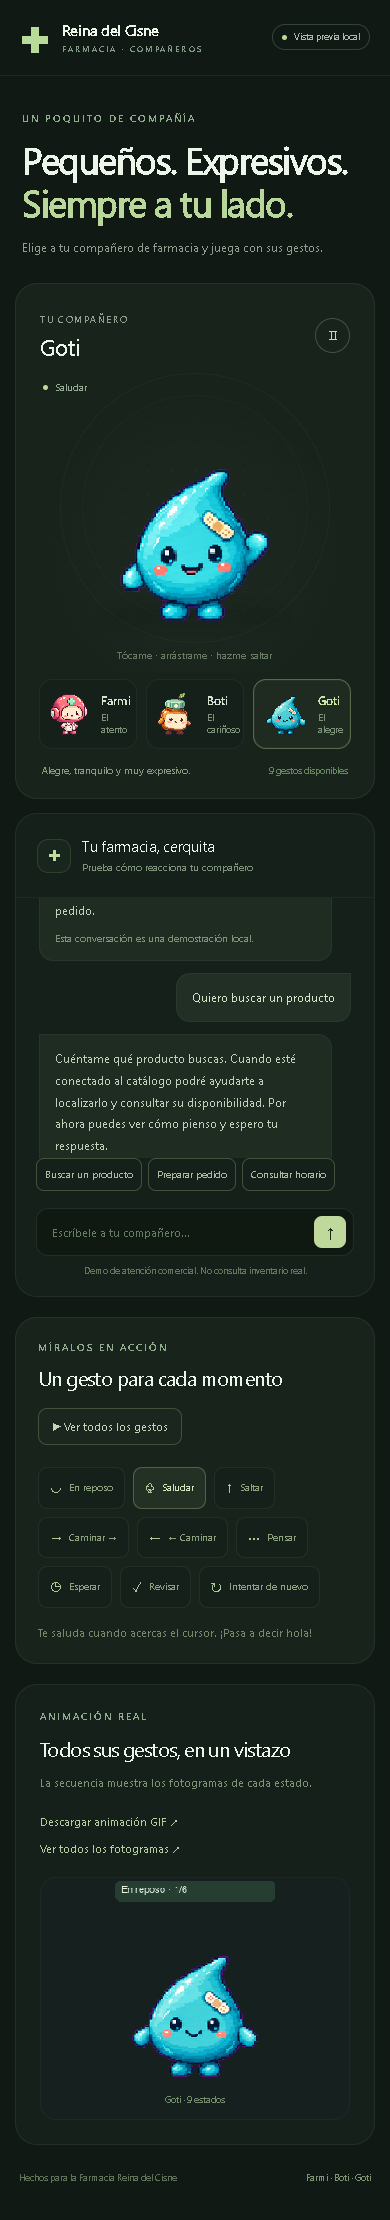
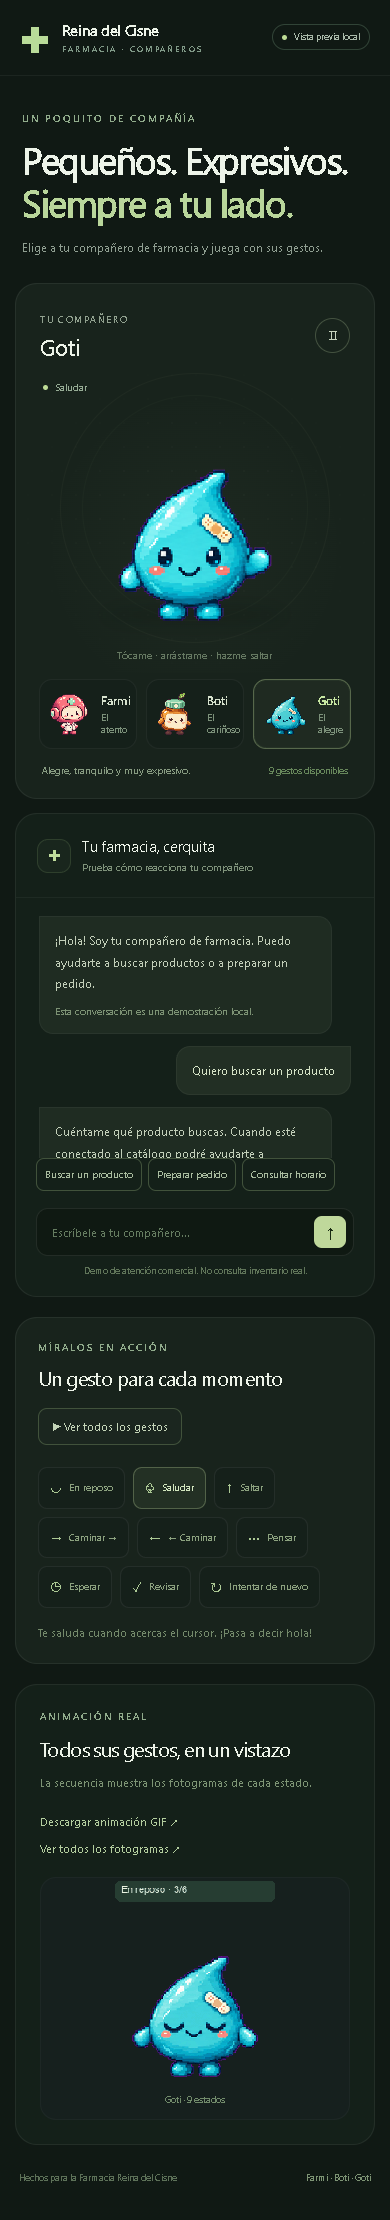
Mejora el diseño responsive de mascotas y tienda

diff --git a/entrega/mascotas-v3/demo-responsive.css b/entrega/mascotas-v3/demo-responsive.css
@@ -1,0 +1,100 @@
+/* Fluid layouts for narrow phones, tablets, short screens and wide monitors. */
+main,.topbar,footer,.workspace,.companion-panel,.chat-panel,.proof-panel,.motion-panel{min-width:0}
+.message,.lede,.character-caption,.proof-panel>div{overflow-wrap:anywhere}
+.chat-messages,.character-choices,.state-buttons{min-width:0}
+.proof-player{width:min(235px,100%)}
+
+@media(min-width:1500px){
+  main{max-width:1320px}
+  .workspace{grid-template-columns:minmax(0,1.65fr) minmax(340px,1fr);gap:24px}
+  .stage{height:clamp(330px,34vw,440px)}
+}
+
+@media(max-width:820px){
+  main{padding-inline:clamp(14px,3vw,24px)}
+  .topbar{padding-inline:clamp(16px,3vw,28px)}
+  .workspace{grid-template-columns:minmax(0,1fr);gap:14px}
+  .intro{padding-block:clamp(28px,6vw,48px) 26px}
+  .intro-note{margin-right:0}
+  .stage{height:clamp(250px,45vw,360px)}
+  .chat-messages{min-height:150px;max-height:36vh}
+  .proof-panel{gap:20px}
+  .proof-player{flex-shrink:1}
+}
+
+@media(max-width:560px){
+  .topbar{gap:10px;padding-block:15px}
+  .brand{gap:8px;font-size:14px}
+  .brand-cross{font-size:29px}
+  .brand small{letter-spacing:1.5px;font-size:7px}
+  .local-badge{font-size:8px;padding:5px 8px;white-space:nowrap}
+  .intro{padding:27px 2px 20px}
+  .eyebrow{font-size:9px;letter-spacing:1.5px}
+  h1{font-size:clamp(30px,9vw,39px);letter-spacing:-1.2px}
+  .lede{max-width:38ch;font-size:12px}
+  .panel-heading{padding:17px 17px 0}
+  .panel-heading h2{font-size:21px}
+  .stage{height:clamp(218px,66vw,310px)}
+  .state-label{left:15px;top:13px}
+  .stage-hint{font-size:9px}
+  .character-choices{gap:6px;margin-inline:10px}
+  .character-card{gap:6px;padding:8px 6px}
+  .character-card img{width:38px;height:42px}
+  .character-card strong{font-size:11px}
+  .character-card small{font-size:8px}
+  .character-caption{padding:12px 15px 16px;font-size:9px}
+  .chat-heading{padding:17px}
+  .chat-messages{padding:15px;min-height:130px;max-height:34dvh}
+  .quick-actions{padding-inline:14px}
+  .quick-actions button{flex:1 1 auto;justify-content:center;min-height:38px}
+  #chat-form{margin-inline:13px}
+  #chat-input{font-size:16px}
+  .demo-note{margin-inline:12px}
+  .motion-panel{padding:17px;margin-top:14px}
+  .motion-heading{margin-bottom:16px}
+  .motion-heading h2,.proof-panel h2{font-size:19px}
+  .secondary-button{white-space:normal}
+  .state-buttons{gap:6px}
+  .state-button{flex:1 1 auto;justify-content:center;padding:9px 10px}
+  .proof-panel{padding:18px;gap:14px;margin-top:14px}
+  .proof-player{min-height:0;padding:8px}
+  .proof-player img{width:min(192px,58vw);height:auto;aspect-ratio:192/208}
+  .proof-player p{padding:20px}
+  footer{flex-wrap:wrap;padding:20px 4px 28px;gap:7px 16px}
+}
+
+@media(max-width:380px){
+  main{padding-inline:10px}
+  .topbar{padding-inline:12px}
+  .brand{font-size:12px}
+  .brand small{font-size:6px;letter-spacing:1px}
+  .local-badge{font-size:7px;gap:5px}
+  .local-badge i{width:4px;height:4px}
+  .character-choices{margin-inline:7px;gap:4px}
+  .character-card{flex-direction:column;justify-content:center;text-align:center;gap:2px;padding:5px 2px}
+  .character-card img{width:34px;height:38px}
+  .character-card small{display:none}
+  .character-caption{align-items:flex-start;gap:6px}
+  .asset-status{font-size:8px}
+  .chat-heading h2{font-size:14px}
+  .quick-actions button{font-size:9px;padding-inline:6px}
+  .motion-panel{padding:14px}
+  .state-button{font-size:9px;padding:8px}
+  .proof-panel{padding:14px}
+}
+
+@media(max-height:520px) and (orientation:landscape){
+  .topbar{padding-block:10px}
+  .intro{padding-block:18px 14px}
+  .intro-note{display:none}
+  .workspace{grid-template-columns:minmax(0,1fr) minmax(260px,.85fr)}
+  .stage{height:clamp(180px,48vh,260px)}
+  .panel-heading{padding-top:14px}
+  .chat-heading{padding-block:12px}
+  .chat-messages{min-height:80px;max-height:25vh;padding-block:10px}
+  .motion-panel,.proof-panel{margin-top:12px;padding-block:16px}
+  .proof-player{min-height:190px}
+  .proof-player img{width:150px;height:auto}
+}
+
+@media(prefers-reduced-motion:reduce){html{scroll-behavior:auto}}

diff --git a/frontend/controllers/mascota.js b/frontend/controllers/mascota.js
@@ -12,9 +12,10 @@ function remember(key,value){try{localStorage.setItem(key,value);}catch(_){}}
 export async function mascotaController(){
   if(document.querySelector('farmacia-mascota'))return;
   const style=document.createElement('link');style.rel='stylesheet';style.href=new URL('widget.css',ASSETS).href;
+  const responsiveStyle=document.createElement('link');responsiveStyle.rel='stylesheet';responsiveStyle.href=new URL('widget-responsive.css',ASSETS).href;
   const host=document.createElement('farmacia-mascota');
   const root=host.attachShadow({mode:'open'});
-  root.append(style);
+  root.append(style,responsiveStyle);
   const template=document.createElement('template');
   template.innerHTML=`<div class="companion"><section class="panel" id="panel" aria-labelledby="title" hidden><header><div><span class="eyebrow">TU COMPAÑERO DE FARMACIA</span><h2 id="title">Goti te acompaña</h2><p>Ayuda para navegar y preparar tu compra</p></div><button class="close" id="close" aria-label="Cerrar ayuda" type="button">×</button></header><div class="preferences"><label>Compañero<select id="character"><option value="farmi">Farmi</option><option value="boti">Boti</option><option value="goti">Goti</option></select></label><button id="motion" type="button" aria-pressed="false">Pausar movimiento</button></div><div class="messages" id="messages" role="log" aria-label="Ayuda de la farmacia" aria-live="polite"></div><nav class="shortcuts" aria-label="Accesos de ayuda"><button type="button" data-intent="productos">Buscar producto</button><button type="button" data-intent="carrito">Mi carrito</button><button type="button" data-intent="horario">Horario</button></nav><form id="form"><label for="input" class="sr-only">¿Qué necesitas?</label><input id="input" maxlength="180" autocomplete="off" placeholder="¿Qué necesitas?" required><button type="submit" aria-label="Enviar consulta">↑</button></form><p class="local-note">Guía local de la tienda · tus mensajes no se envían</p></section><div class="bubble" id="bubble" role="status" hidden></div><button class="avatar" id="avatar" type="button" aria-label="Haz saltar a Goti"><canvas id="canvas" width="192" height="208" aria-hidden="true"></canvas></button><button class="launcher" id="launcher" type="button" aria-expanded="false" aria-controls="panel"><span class="online" aria-hidden="true"></span><span id="launcher-label">¿Te ayudo?</span><span aria-hidden="true">↗</span></button></div>`;
   root.append(template.content.cloneNode(true));document.body.append(host);

diff --git a/frontend/assets/mascotas/widget-responsive.css b/frontend/assets/mascotas/widget-responsive.css
@@ -1,0 +1,38 @@
+/* Mobile viewport, notch and touch refinements for the floating store helper. */
+:host{right:max(12px,env(safe-area-inset-right,0px));bottom:max(12px,env(safe-area-inset-bottom,0px))}
+.avatar,.launcher,.close,.preferences button,.shortcuts button,form button{touch-action:manipulation}
+
+@media(max-width:600px){
+  .panel{max-height:calc(100dvh - 158px - env(safe-area-inset-top,0px));width:min(360px,calc(100vw - 24px))}
+  .messages{min-height:72px;max-height:min(220px,34dvh)}
+  .preferences{gap:6px;padding-inline:12px}
+  .preferences button{font-size:10px}
+  .shortcuts{padding-inline:12px}
+  .shortcuts button{flex:1 1 auto;min-height:36px}
+  form{margin-inline:12px}
+  input{font-size:16px}
+  .local-note{margin-bottom:max(10px,env(safe-area-inset-bottom,0px))}
+}
+
+@media(max-width:360px){
+  :host{right:max(8px,env(safe-area-inset-right,0px));bottom:max(8px,env(safe-area-inset-bottom,0px))}
+  .avatar,.avatar canvas{width:70px;height:76px}
+  .launcher{gap:6px;padding-inline:10px;font-size:10px}
+  .panel{bottom:122px;width:calc(100vw - 16px);max-width:calc(100vw - 16px);border-radius:16px}
+  .panel header{padding:13px}
+  .panel h2{font-size:17px}
+  .preferences{font-size:9px}
+  .preferences select{max-width:82px}
+  .bubble{right:78px;max-width:calc(100vw - 104px);width:170px}
+}
+
+@media(max-height:520px) and (orientation:landscape){
+  .avatar,.avatar canvas{width:66px;height:72px}
+  .launcher{min-height:32px;padding-block:5px}
+  .panel{position:fixed;left:max(10px,env(safe-area-inset-left,0px));right:max(10px,env(safe-area-inset-right,0px));bottom:calc(78px + env(safe-area-inset-bottom,0px));width:auto;max-width:none;max-height:calc(100dvh - 92px - env(safe-area-inset-top,0px) - env(safe-area-inset-bottom,0px));border-radius:14px}
+  .panel header{padding:10px 13px}
+  .preferences{padding-block:7px}
+  .messages{min-height:54px;max-height:20dvh;padding-block:8px}
+  .shortcuts{padding-bottom:7px}
+  .local-note{margin-block:5px 7px}
+}

diff --git a/entrega/mascotas-v3/index.html b/entrega/mascotas-v3/index.html
@@ -6,6 +6,7 @@
   <meta name="theme-color" content="#13231e">
   <title>Compañeros · Farmacia Reina del Cisne</title>
   <link rel="stylesheet" href="demo.css">
+  <link rel="stylesheet" href="demo-responsive.css">
   <script src="demo.js" defer></script>
 </head>
 <body>

diff --git a/entrega/mascotas-v3/fuentes/crear_paquete.py b/entrega/mascotas-v3/fuentes/crear_paquete.py
@@ -6,7 +6,7 @@ BASE = Path(__file__).resolve().parents[1]
 PROJECT = BASE.parents[1]
 OUTPUT = PROJECT / "entrega" / "Mascotas_Farmacia_Animadas.zip"
 items = {}
-for name in ("index.html", "demo.css", "demo.js", "README.md", "iniciar-vista-previa.ps1"):
+for name in ("index.html", "demo.css", "demo-responsive.css", "demo.js", "README.md", "iniciar-vista-previa.ps1"):
     items[name] = BASE / name
 for folder in ("art", "sprites", "fuentes"):
     for source in (BASE / folder).rglob("*"):
@@ -22,12 +22,13 @@ for pet in ("farmi", "boti", "goti"):
                 items[source.relative_to(BASE).as_posix()] = source
 items["integracion/frontend/controllers/mascota.js"] = PROJECT / "frontend/controllers/mascota.js"
 items["integracion/frontend/assets/mascotas/widget.css"] = PROJECT / "frontend/assets/mascotas/widget.css"
+items["integracion/frontend/assets/mascotas/widget-responsive.css"] = PROJECT / "frontend/assets/mascotas/widget-responsive.css"
 assert OUTPUT.resolve().is_relative_to(PROJECT.resolve())
 with ZipFile(OUTPUT, "w", compression=ZIP_DEFLATED, compresslevel=6) as archive:
     for name, source in sorted(items.items()):
         archive.write(source, name)
-    archive.writestr("integracion/LEEME.txt", "La integracion ya esta hecha en este proyecto. Para otra copia: coloca mascota.js y widget.css en sus rutas frontend; copia art/ y sprites/ del paquete a frontend/assets/mascotas/. Carga mascotaController desde controllers/app.js despues de layoutController mediante import('./mascota.js').then(({mascotaController})=>mascotaController()). No se necesitan claves ni servicios externos.\n")
+    archive.writestr("integracion/LEEME.txt", "La integracion ya esta hecha en este proyecto. Para otra copia: coloca mascota.js, widget.css y widget-responsive.css en sus rutas frontend; copia art/ y sprites/ del paquete a frontend/assets/mascotas/. Carga mascotaController desde controllers/app.js despues de layoutController mediante import('./mascota.js').then(({mascotaController})=>mascotaController()). No se necesitan claves ni servicios externos.\n")
 with ZipFile(OUTPUT) as archive:
     assert archive.testzip() is None
-    assert {"sprites/farmi.png", "sprites/boti.png", "sprites/goti.png", "sprites/manifest.json", "previews/tres-en-accion.gif", "integracion/frontend/controllers/mascota.js"} <= set(archive.namelist())
+    assert {"sprites/farmi.png", "sprites/boti.png", "sprites/goti.png", "sprites/manifest.json", "demo-responsive.css", "previews/tres-en-accion.gif", "integracion/frontend/controllers/mascota.js", "integracion/frontend/assets/mascotas/widget-responsive.css"} <= set(archive.namelist())
     print(f"Paquete verificado: {len(archive.namelist())} archivos, {OUTPUT.stat().st_size / 1048576:.2f} MB")

diff --git a/entrega/mascotas-v3/README.md b/entrega/mascotas-v3/README.md
@@ -24,6 +24,7 @@ Los nueve botones permiten probar reposo, saludo, salto, caminata en ambas direc
 - `previews/{personaje}/contacto.png`: todos los fotogramas, etiquetados.
 - `previews/empaquetado.json`: comprobación del empaquetado.
 - `index.html`, `demo.css`, `demo.js`: reproductor sin dependencias ni recursos de red.
+- `demo-responsive.css`, `frontend/assets/mascotas/widget-responsive.css`: ajustes fluidos para móviles estrechos, tabletas, escritorio, muescas y pantallas horizontales de poca altura.
 
 Los originales se conservan. Antes de componer el atlas, el empaquetador aplica una sola transformación a cada fila, compartida por todos sus fotogramas. Usa el primer fotograma de cada estado para igualar el tamaño entre reposo y salto y fijar una línea de suelo común. Calcula un tamaño que deje espacio a todas las poses y a la altura del salto, sin recortar ni volver a centrar cada pose por separado. `registration.json` deja constancia de los límites y de la transición al salto.
 
